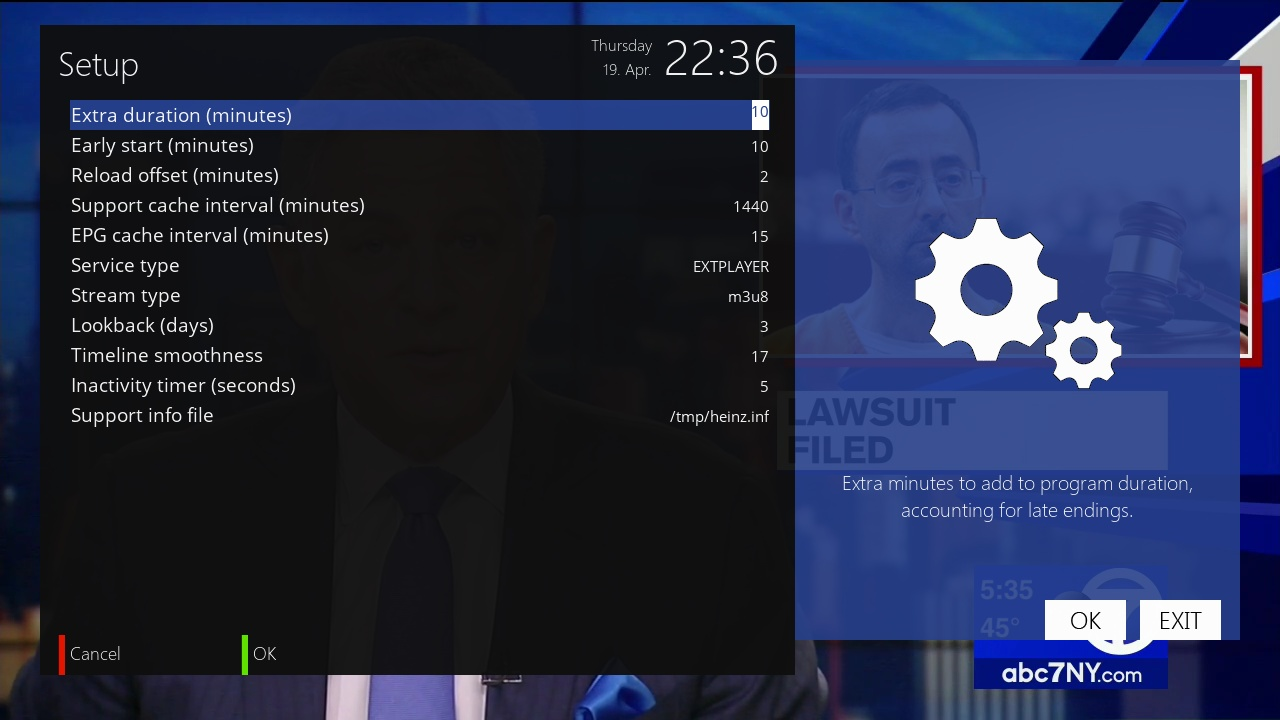
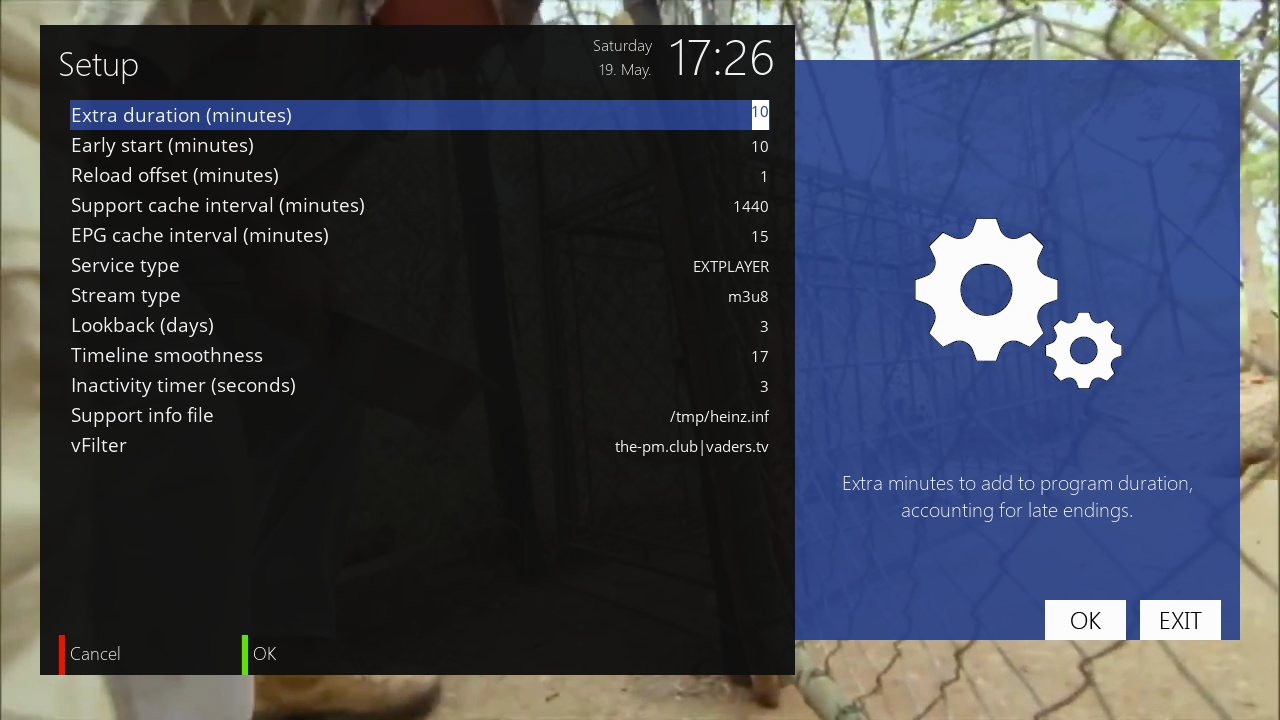
add vfilter and menu access via unsupported timeout

Changed region(s): [[0.0, 0.0, 1.0, 1.0], [0.4688, 0.6111, 0.5938, 0.6417], [0.0625, 0.6111, 0.0938, 0.6417]]

diff --git a/openatv6.0/plugins/heinz/checksums.md b/openatv6.0/plugins/heinz/checksums.md
@@ -1,5 +1,5 @@
-enigma2-plugin-extensions-heinz-6.0.3l.ipk
+enigma2-plugin-extensions-heinz-6.0.3m.ipk
 
-MD5 7b72278b0e6f9994e3a1b1dc37a3c002
+MD5 042deb05ace8b753dcec47dd2cd73420
 
-SHA a23cbd7632b04762088027bce33f3f54c1545fdd
+SHA 60ed458a1575a435b30105fcd2e04b2460650ccd
